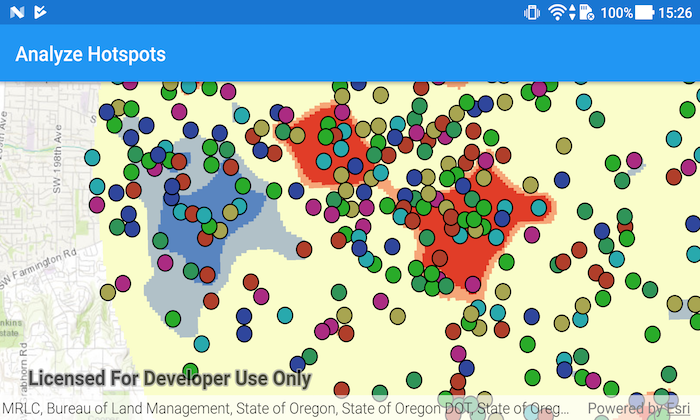
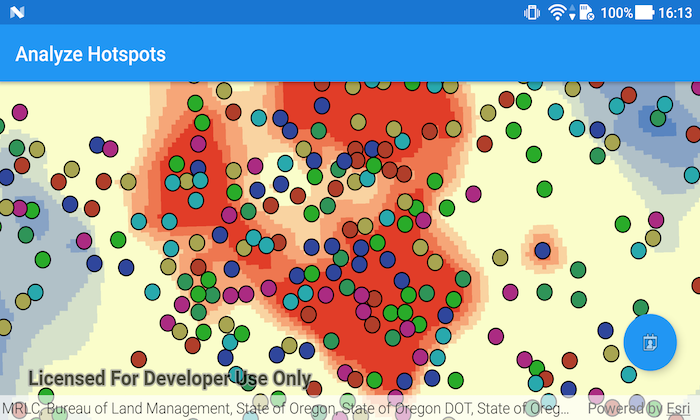
add FAB for reanalysis. make progress cancelable

diff --git a/analyze-hotspots/src/main/java/com/esri/arcgisruntime/sample/analyzehotspots/MainActivity.java b/analyze-hotspots/src/main/java/com/esri/arcgisruntime/sample/analyzehotspots/MainActivity.java
@@ -26,7 +26,9 @@ import java.util.concurrent.ExecutionException;
 import android.app.DatePickerDialog;
 import android.app.Dialog;
 import android.app.ProgressDialog;
+import android.content.DialogInterface;
 import android.os.Bundle;
+import android.support.design.widget.FloatingActionButton;
 import android.support.v7.app.AppCompatActivity;
 import android.util.Log;
 import android.view.View;
@@ -71,6 +73,8 @@ public class MainActivity extends AppCompatActivity {
   private Date mMinDate;
   private Date mMaxDate;
 
+  private boolean canceled;
+
   @Override
   protected void onCreate(Bundle savedInstanceState) {
     super.onCreate(savedInstanceState);
@@ -78,13 +82,6 @@ public class MainActivity extends AppCompatActivity {
 
     // create a simple date formatter to parse strings to date
     mSimpleDateFormatter = new SimpleDateFormat(getString(R.string.date_format), Locale.US);
-    try {
-      // set default date range for the data set
-      mMinDate = mSimpleDateFormatter.parse(getString(R.string.min_date));
-      mMaxDate = mSimpleDateFormatter.parse(getString(R.string.max_date));
-    } catch (ParseException e) {
-      Log.e(TAG, "Error in date format: " + e.getMessage());
-    }
 
     // inflate MapView from layout
     mMapView = (MapView) findViewById(R.id.mapView);
@@ -105,7 +102,15 @@ public class MainActivity extends AppCompatActivity {
     mGeoprocessingTask = new GeoprocessingTask(getString(R.string.hotspot_911_calls));
     mGeoprocessingTask.loadAsync();
 
-    showDateRangeDialog();
+    FloatingActionButton calendarFAB = (FloatingActionButton) findViewById(R.id.calendarButton);
+
+    calendarFAB.setOnClickListener(new View.OnClickListener() {
+      @Override public void onClick(View v) {
+        showDateRangeDialog();
+      }
+    });
+
+    calendarFAB.performClick();
   }
 
   /**
@@ -116,6 +121,15 @@ public class MainActivity extends AppCompatActivity {
     // create custom dialog
     final Dialog dialog = new Dialog(MainActivity.this);
     dialog.setContentView(R.layout.custom_alert_dialog);
+    dialog.setCancelable(true);
+
+    try {
+      // set default date range for the data set
+      mMinDate = mSimpleDateFormatter.parse(getString(R.string.min_date));
+      mMaxDate = mSimpleDateFormatter.parse(getString(R.string.max_date));
+    } catch (ParseException e) {
+      Log.e(TAG, "Error in date format: " + e.getMessage());
+    }
 
     fromDateText = (EditText) dialog.findViewById(R.id.fromDateText);
     toDateText = (EditText) dialog.findViewById(R.id.toDateText);
@@ -207,6 +221,12 @@ public class MainActivity extends AppCompatActivity {
       mGeoprocessingJob.cancel();
     }
 
+    // a map image layer is generated as a result. Remove any layer previously added to the map
+    mMapView.getMap().getOperationalLayers().clear();
+
+    // set canceled flag to false
+    canceled = false;
+
     // parameters
     final ListenableFuture<GeoprocessingParameters> paramsFuture = mGeoprocessingTask.createDefaultParametersAsync();
     paramsFuture.addDoneListener(new Runnable() {
@@ -238,6 +258,16 @@ public class MainActivity extends AppCompatActivity {
           progressDialog.setIndeterminate(false);
           progressDialog.setProgressStyle(ProgressDialog.STYLE_HORIZONTAL);
           progressDialog.setMax(100);
+          progressDialog.setCancelable(false);
+          progressDialog.setButton(DialogInterface.BUTTON_NEGATIVE, "Cancel", new DialogInterface.OnClickListener() {
+            @Override
+            public void onClick(DialogInterface dialog, int which) {
+              dialog.dismiss();
+              // set canceled flag to true
+              canceled = true;
+              mGeoprocessingJob.cancel();
+            }
+          });
           progressDialog.show();
 
           // update progress
@@ -252,8 +282,6 @@ public class MainActivity extends AppCompatActivity {
               progressDialog.dismiss();
               if (mGeoprocessingJob.getStatus() == Job.Status.SUCCEEDED) {
                 Log.i(TAG, "Job succeeded.");
-                // a map image layer is generated as a result. Remove any layer previously added to the map
-                mMapView.getMap().getOperationalLayers().clear();
 
                 GeoprocessingResult geoprocessingResult = mGeoprocessingJob.getResult();
                 final ArcGISMapImageLayer hotspotMapImageLayer = geoprocessingResult.getMapImageLayer();
@@ -267,6 +295,9 @@ public class MainActivity extends AppCompatActivity {
                     mMapView.setViewpointGeometryAsync(hotspotMapImageLayer.getFullExtent());
                   }
                 });
+              } else if (canceled) {
+                Toast.makeText(MainActivity.this, "Job canceled.", Toast.LENGTH_SHORT).show();
+                Log.i(TAG, "Job cancelled.");
               } else {
                 Log.e(TAG, "Job did not succeed!");
                 Toast.makeText(MainActivity.this, "Job did not succeed!", Toast.LENGTH_LONG).show();
